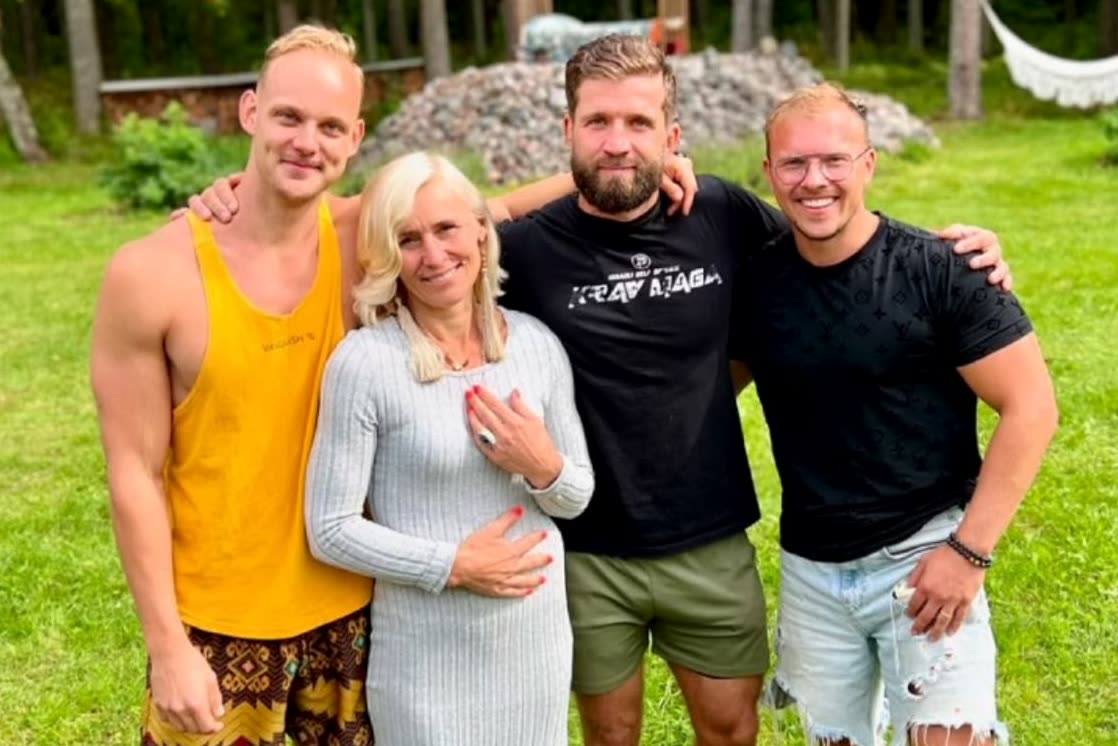
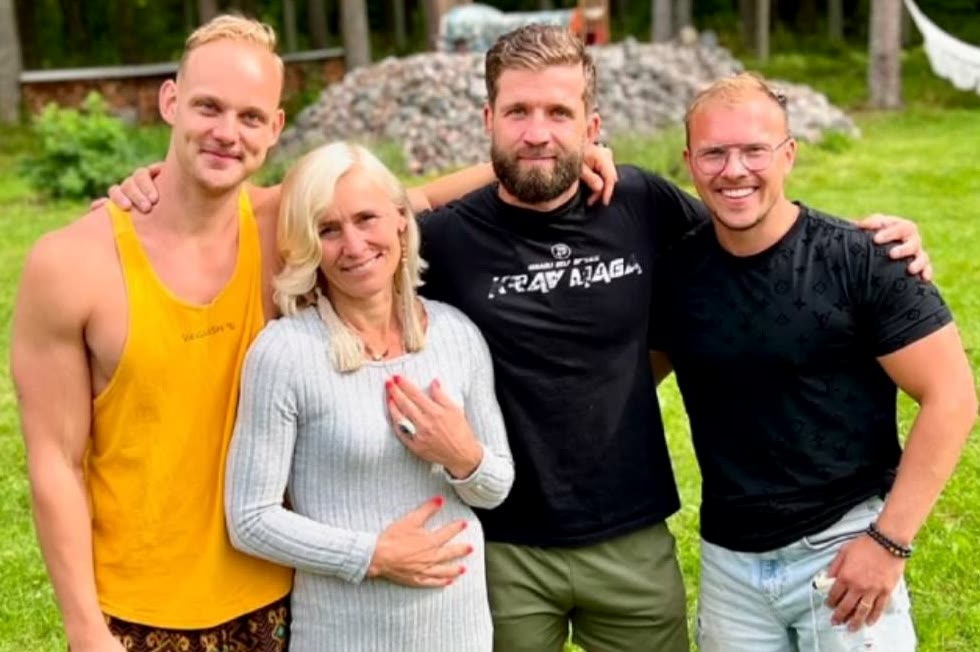
Kompass: final crops Väe, Edu, Südame (pre-cropped 3:2)

diff --git a/index.html b/index.html
@@ -558,14 +558,14 @@
     $("r-mc-sub").textContent = (st.sex === "naine" ? SUB_W[main] : SUB_M[main]) || head[1];
     $("r-mc-list").innerHTML = ((st.sex === "naine" && OFFER_W[main]) || OFFER[main] || []).map(([b, t]) => `<li style="margin:0 0 8px;font-size:14.5px;line-height:1.45">✓ <b>${b}</b>${t}</li>`).join("");
     $("r-course-btn").href = payOf(main) || "#";
-    const IMGV = "0506";   // bump when a photo is swapped (beats browser + CDN cache)
+    const IMGV = "0512";   // bump when a photo is swapped (beats browser + CDN cache)
     const bg = `assets/bg/${main}-${st.sex === "naine" ? "n" : "m"}.jpg?v=${IMGV}`;
     const NO_IMG = [];   // new photos coming 29.10; hide banner until then
     $("r-mc-img").src = bg; $("r-mc-img").style.display = NO_IMG.includes(`${main}-${st.sex === "naine" ? "n" : "m"}`) ? "none" : "";
     $("r-mc-img").style.objectPosition = main === "raha" && st.sex !== "naine" ? "center center"   // whole photo on a blurred 3:2 frame
       : main === "vaim" && st.sex === "naine" ? "42% center"                                 // Kaidi on the rock
       : main === "keha" && st.sex !== "naine" ? "center center"                                // B&W studio, pre-framed 3:2
-      : main === "vaim" ? "center 34%"                                                       // Hendrik's face
+      : main === "vaim" ? "center center"                                                       // Hendrik's face
       : main === "raha" && st.sex === "naine" ? "center 30%"                                 // Kaidi with flowers
       : main === "suhted" && st.sex !== "naine" ? "center center"                           // summer crew, pre-cropped 3:2
       : main === "suhted" ? "center center" : "";                                             // Kaidi hugging, pre-cropped 3:2
